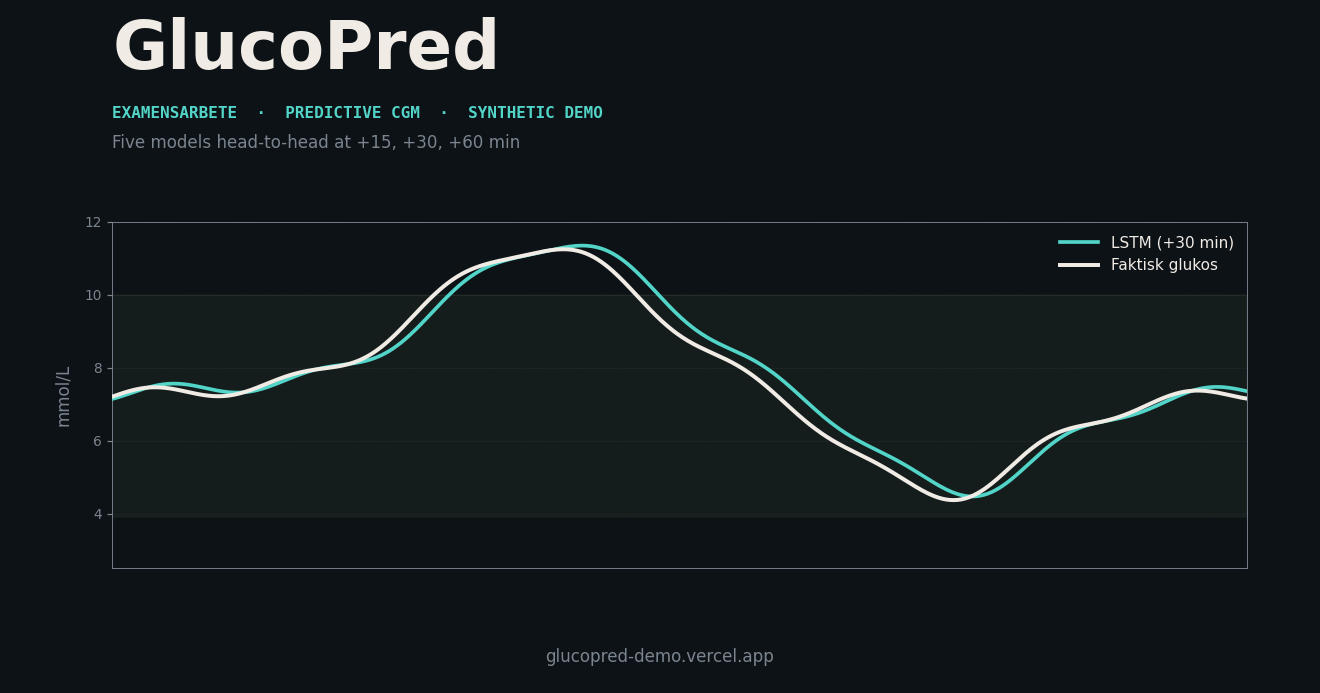
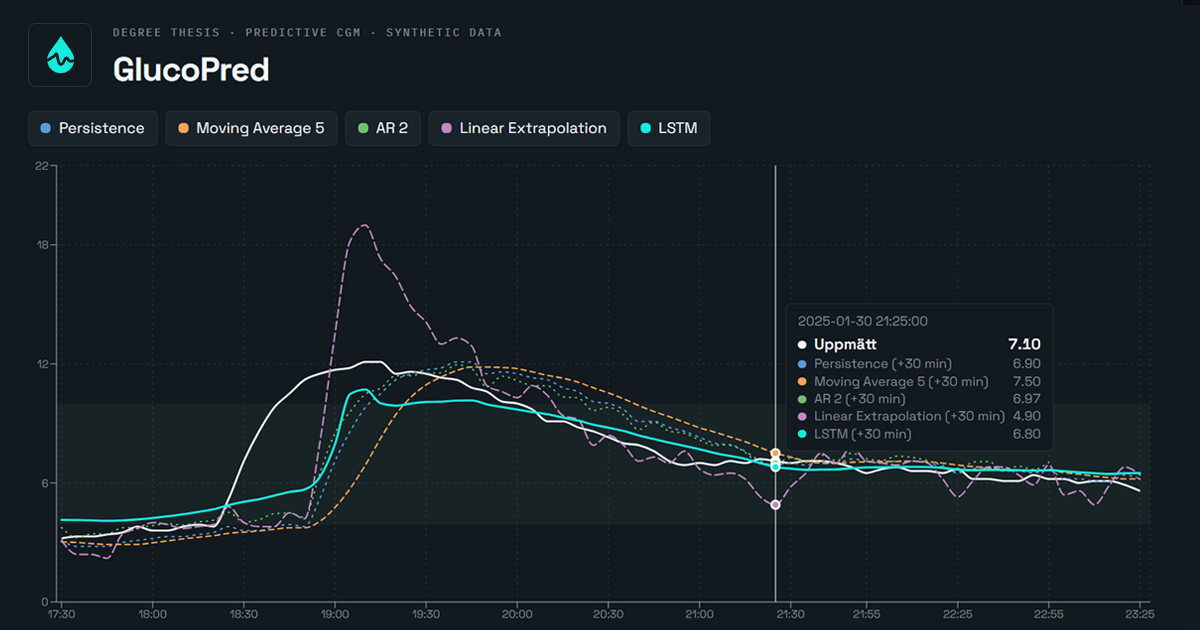
fix(og): use real demo screenshot, correct image dimensions

diff --git a/index.html b/index.html
@@ -17,8 +17,8 @@
       content="Type 1 Diabetes thesis demo on synthetic data — five models compared head-to-head at +15, +30 and +60 min forecasting horizons, with Clarke Error Grid analysis."
     />
     <meta property="og:image" content="https://glucopred-demo.vercel.app/og-image.png" />
-    <meta property="og:image:width" content="1320" />
-    <meta property="og:image:height" content="693" />
+    <meta property="og:image:width" content="1200" />
+    <meta property="og:image:height" content="630" />
     <meta name="twitter:card" content="summary_large_image" />
     <meta name="twitter:title" content="GlucoPred — short-horizon CGM forecasting demo" />
     <meta
